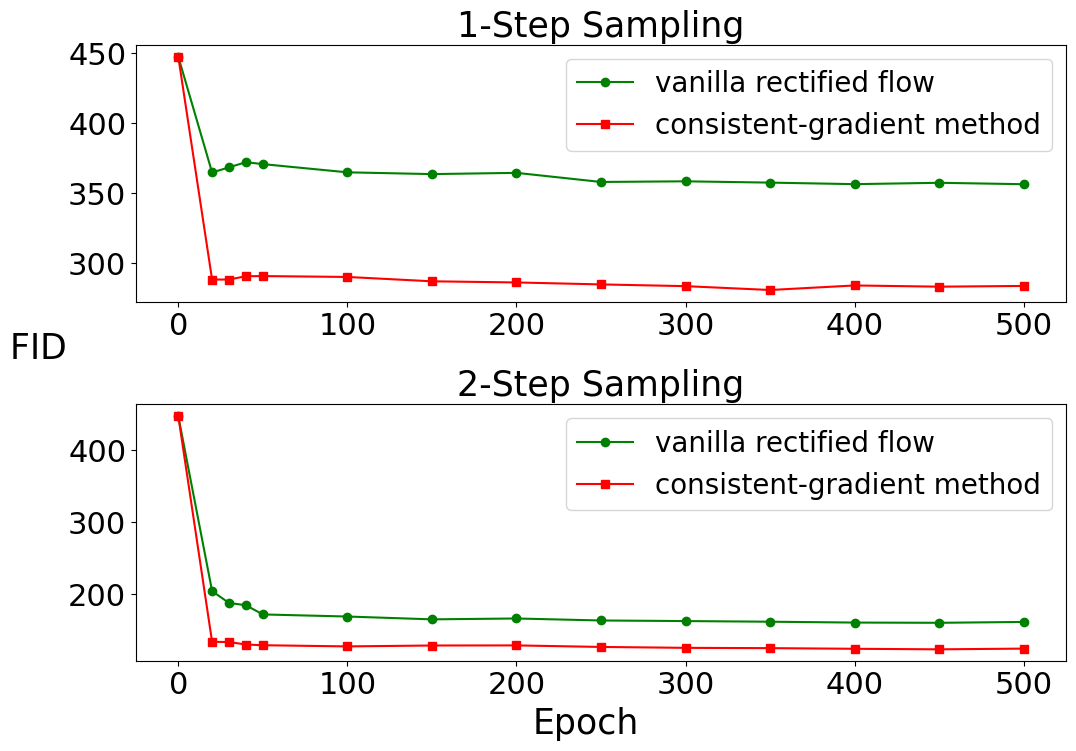
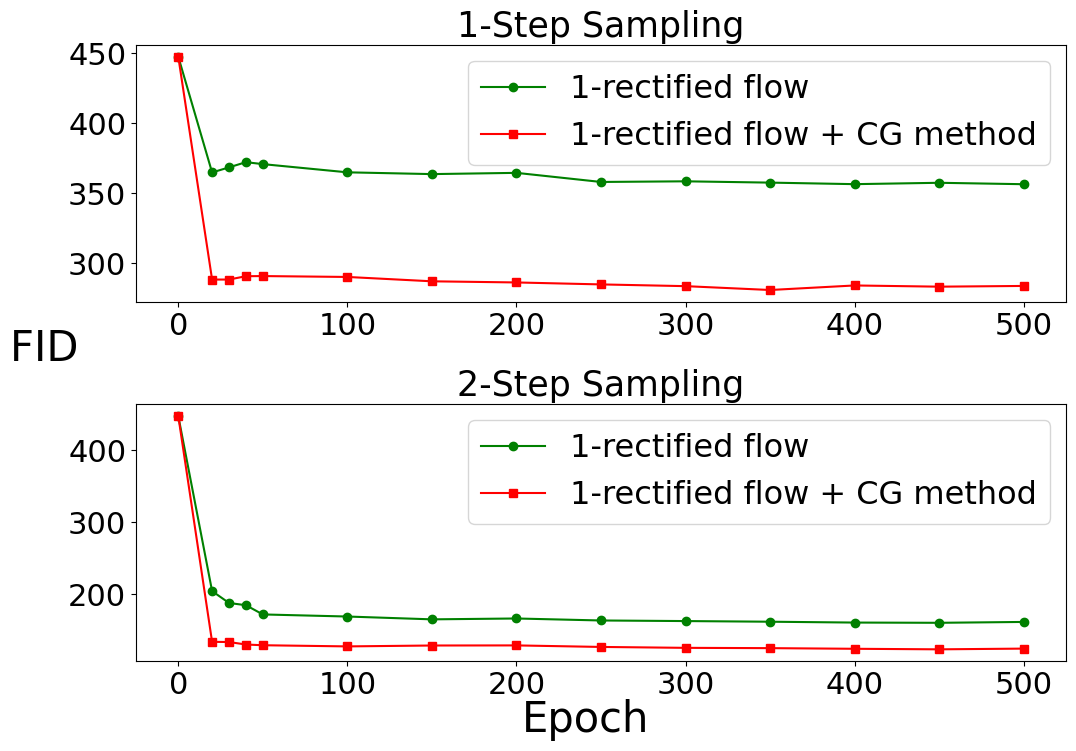
main_chart.py: enlarge font-size in plot.

diff --git a/RectifiedFlow_Pytorch/main_chart.py b/RectifiedFlow_Pytorch/main_chart.py
@@ -127,17 +127,17 @@ def track_fid_when_training():
     ax2.tick_params('both', labelsize=22)
     ax1.plot(epoch_arr, fid_l000_s1, linestyle='-', color='g', marker='o')
     ax1.plot(epoch_arr, fid_l0_2_s1, linestyle='-', color='r', marker='s')
-    ax1.legend(['vanilla rectified flow', 'consistent-gradient method'], fontsize=20, loc='upper right')
+    ax1.legend(['1-rectified flow', '1-rectified flow + CG method'], fontsize=23, loc='upper right')
     ax1.set_title("1-Step Sampling", fontsize=25)
 
     ax2.plot(epoch_arr, fid_l000_s2, linestyle='-', color='g', marker='o')
     ax2.plot(epoch_arr, fid_l0_2_s2, linestyle='-', color='r', marker='s')
-    ax2.legend(['vanilla rectified flow', 'consistent-gradient method'], fontsize=20, loc='upper right')
+    ax2.legend(['1-rectified flow', '1-rectified flow + CG method'], fontsize=23, loc='upper right')
     ax2.set_title("2-Step Sampling", fontsize=25)
 
     fig.subplots_adjust(hspace=0.4)
-    fig.supylabel('FID  ', fontsize=25, rotation=0)  # make it horizontal
-    fig.supxlabel('Epoch', fontsize=25)
+    fig.supylabel('FID  ', fontsize=30, rotation=0)  # make it horizontal
+    fig.supxlabel('Epoch', fontsize=30)
     # fig.suptitle("FID Metrics When Training", fontsize=30)
 
     f_path = './charts/fig_track_fid_when_training.png'
@@ -321,11 +321,11 @@ def gradient_variance_when_training():
     ax1.tick_params('both', labelsize=22)
     ax1.plot(x_axis, lambda_false, linestyle='-', color='g')
     ax1.plot(x_axis, lambda_0_1, linestyle='-', color='r')
-    ax1.legend(['3-rectified flow', '3-rectified flow + consistent-gradient method'], fontsize=20, loc='upper right')
-    ax1.set_title("Variance of Predicted Gradients", fontsize=25)
+    ax1.legend(['3-rectified flow', '3-rectified flow + CG method'], fontsize=25, loc='upper right')
+    ax1.set_title("Variance of Predicted Gradients", fontsize=30)
 
-    fig.supylabel('Variance ($\\times 10^{-4}$)', fontsize=25)  # make it horizontal: rotation=0
-    fig.supxlabel('Epoch', fontsize=25)
+    fig.supylabel('Variance ($\\times 10^{-4}$)', fontsize=30)  # make it horizontal: rotation=0
+    fig.supxlabel('Epoch', fontsize=30)
     # plt.show()
     f_path = './charts/gradient_variance/fig_variance_of_gradients_ReRF3_vs_ReRF2Refine.png'
     fig.savefig(f_path, bbox_inches='tight')
@@ -489,14 +489,14 @@ def track_training_curve_of_loss():
             list2[i] = ema
         fig = plt.figure(figsize=(11, 7))
         ax1 = fig.add_subplot(1, 1, 1)
-        ax1.tick_params('both', labelsize=22)
+        ax1.tick_params('both', labelsize=27)
         ax1.plot(epoch_arr, list1, linestyle='-', color='g')
         ax1.plot(epoch_arr, list2, linestyle='-', color='r')
-        label_arr =[f"{ith}-Rectified Flow", f"{ith}-Rectified Flow + our method"]
-        ax1.legend(label_arr, fontsize=20, loc='upper right')
+        label_arr =[f"{ith}-Rectified Flow", f"{ith}-Rectified Flow + CG method"]
+        ax1.legend(label_arr, fontsize=27, loc='upper right')
         y_label = r"$||g-\hat{g}||_2^2 \quad (\times 10^{-3})$"
-        ax1.set_ylabel(y_label, fontsize=30)
-        ax1.set_xlabel('Epoch', fontsize=25)
+        ax1.set_ylabel(y_label, fontsize=40)
+        ax1.set_xlabel('Epoch', fontsize=40)
         f_path = f"./charts/fig_track_training_curve_of_loss{ith}.png"
         fig.savefig(f_path, bbox_inches='tight')
         print(f"file saved: {f_path}")
@@ -611,8 +611,8 @@ def main():
     # reverse_time_ode_gradient()
     # gradient_variance_when_training()
     # track_fid_when_training()
-    # trajectory_diffusion_vs_rectified_flow()
-    track_training_curve_of_loss()
+    trajectory_diffusion_vs_rectified_flow()
+    # track_training_curve_of_loss()
 
 if __name__ == '__main__':
     main()
